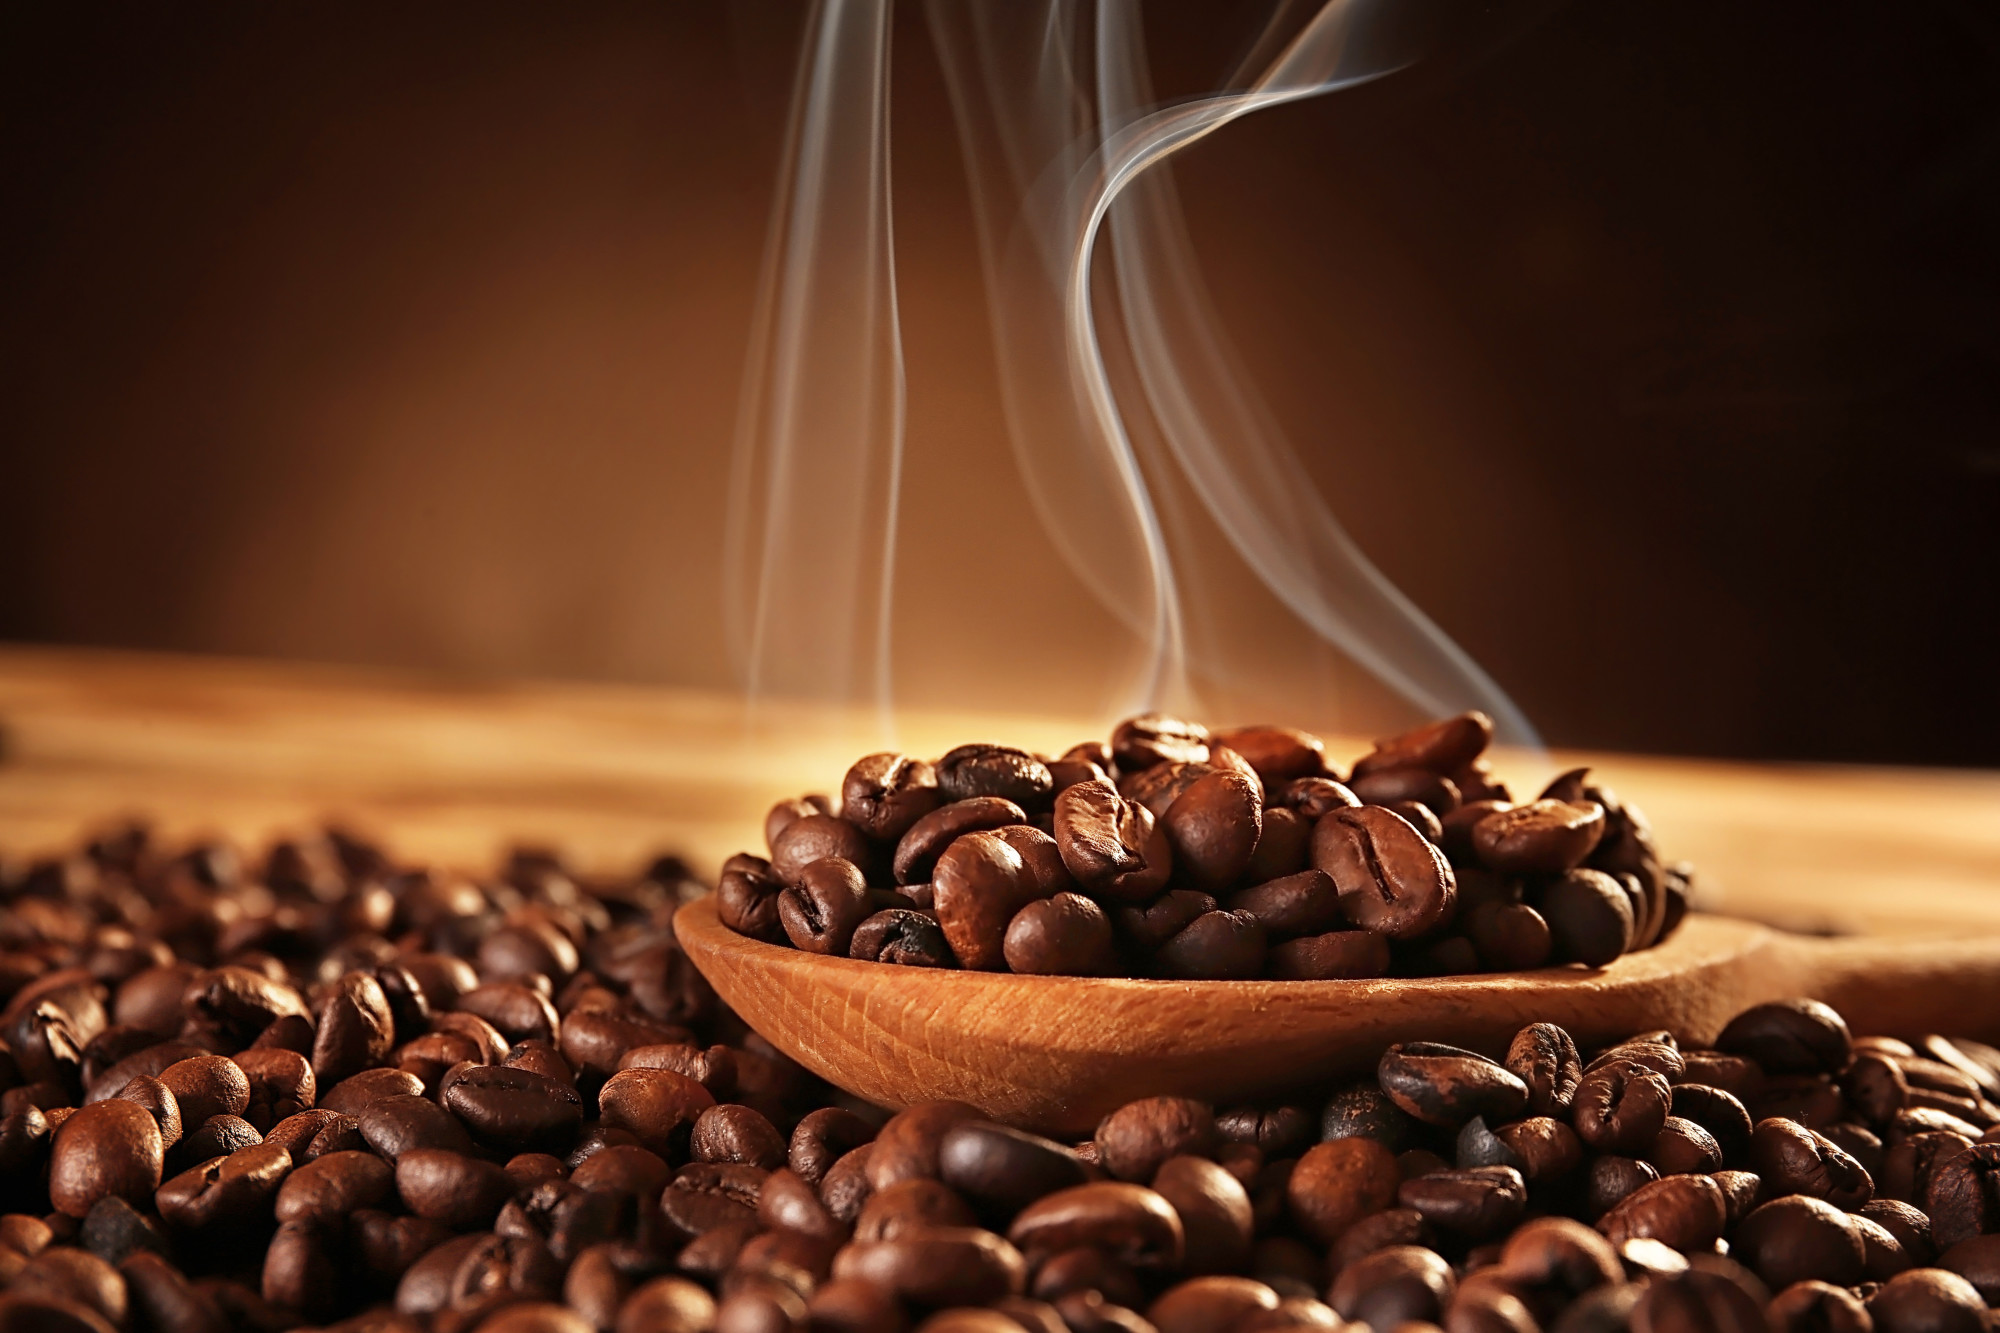
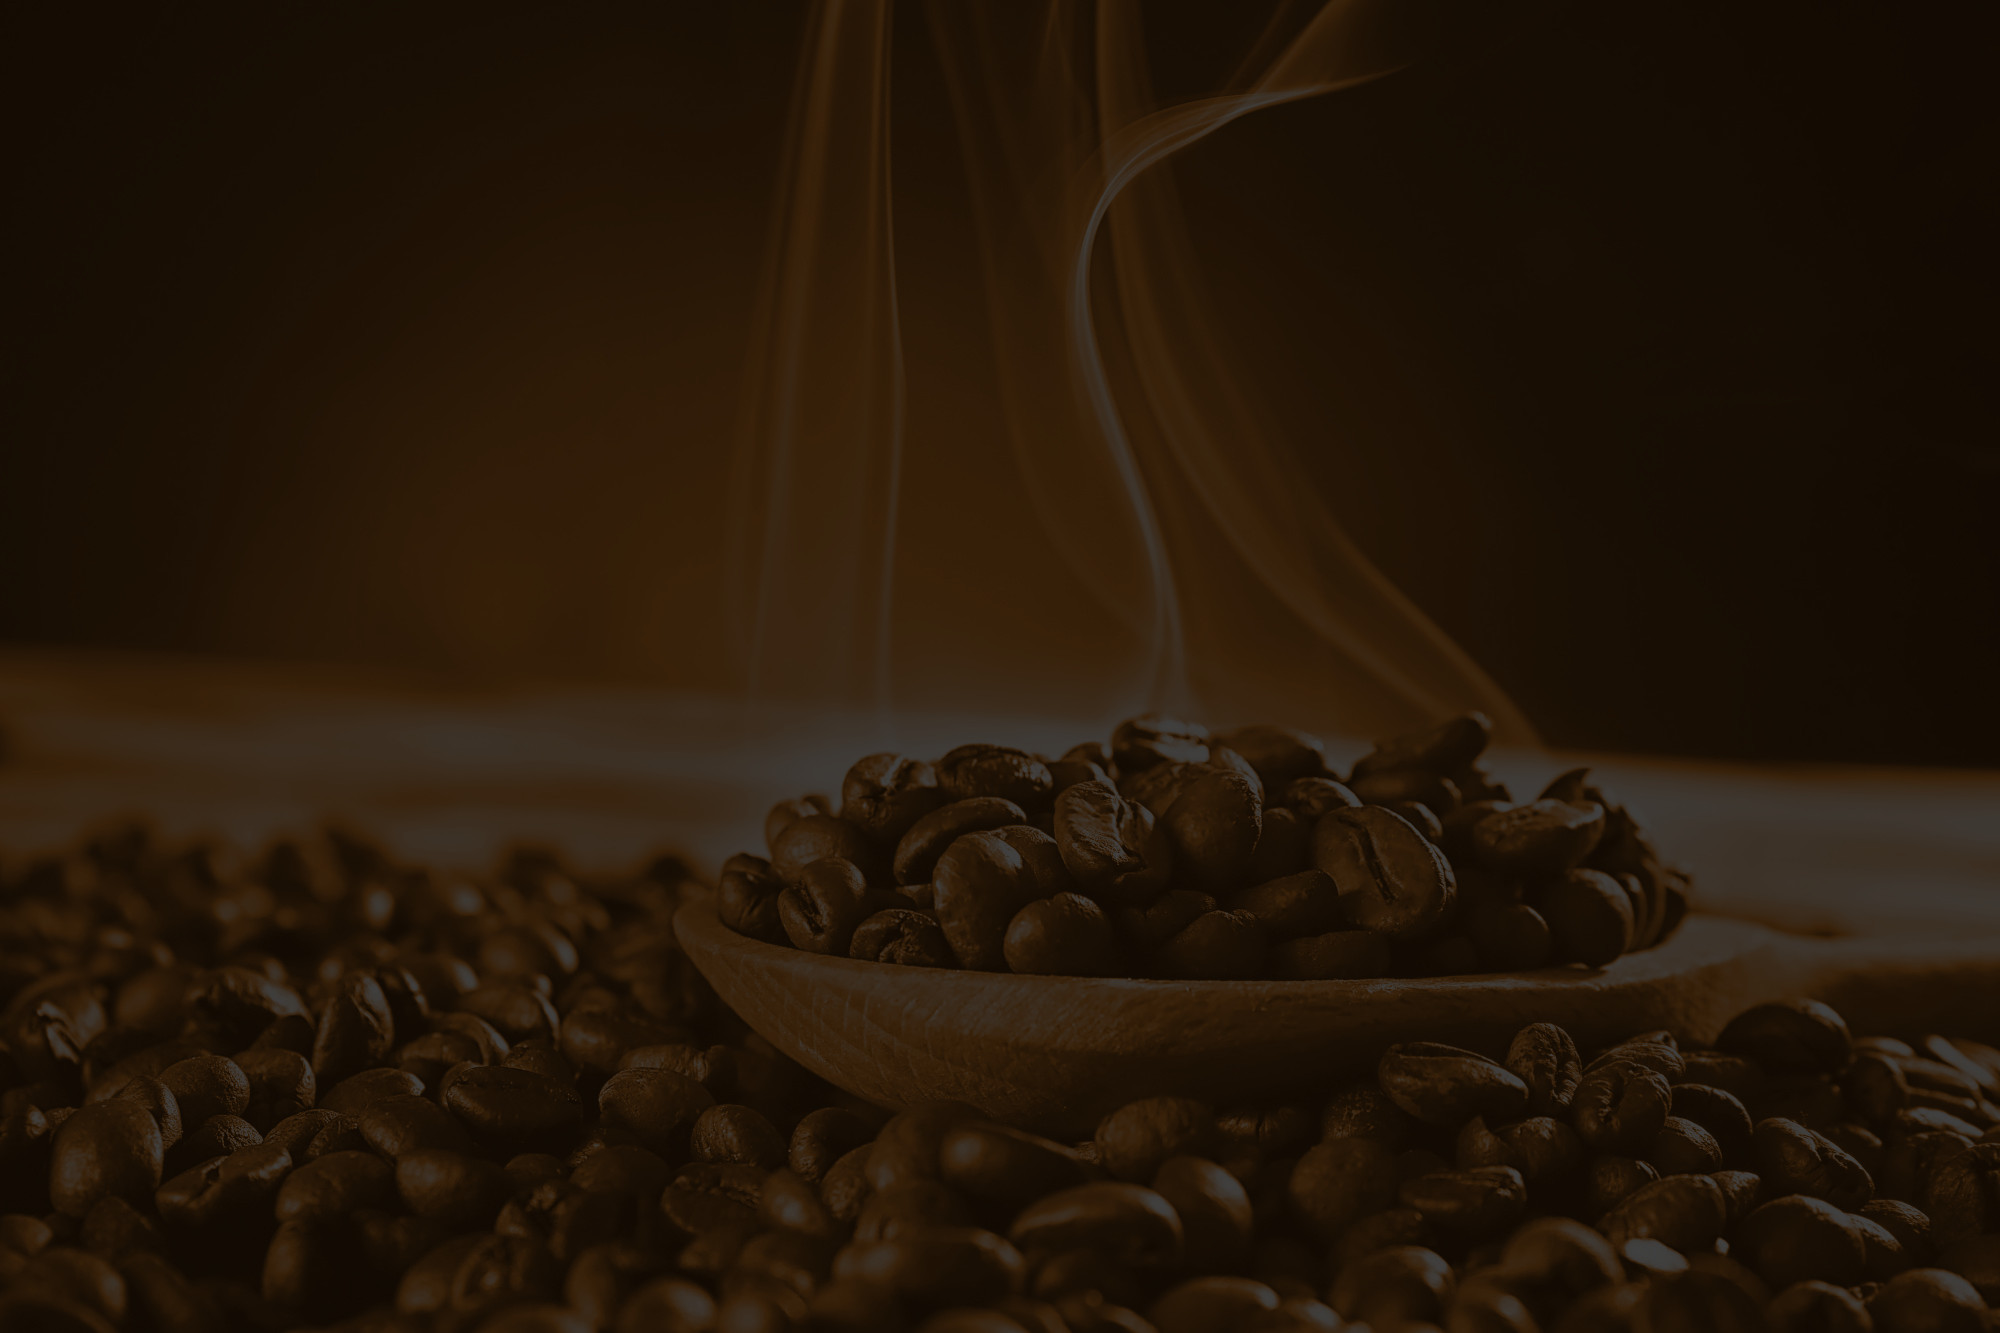
background dim

diff --git a/src/components/layout.css b/src/components/layout.css
@@ -50,5 +50,10 @@ h6 {
 }
 
 .default-background {
+  background-repeat: repeat;
   min-height: 100vh;
+  /* display: flexbox; */
+  align-items: center;
+  justify-content: center;
+  /* background-color: linear-gradient(rgba(191, 157, 0.6), rgba(191, 157, 0.6)); */
 }
